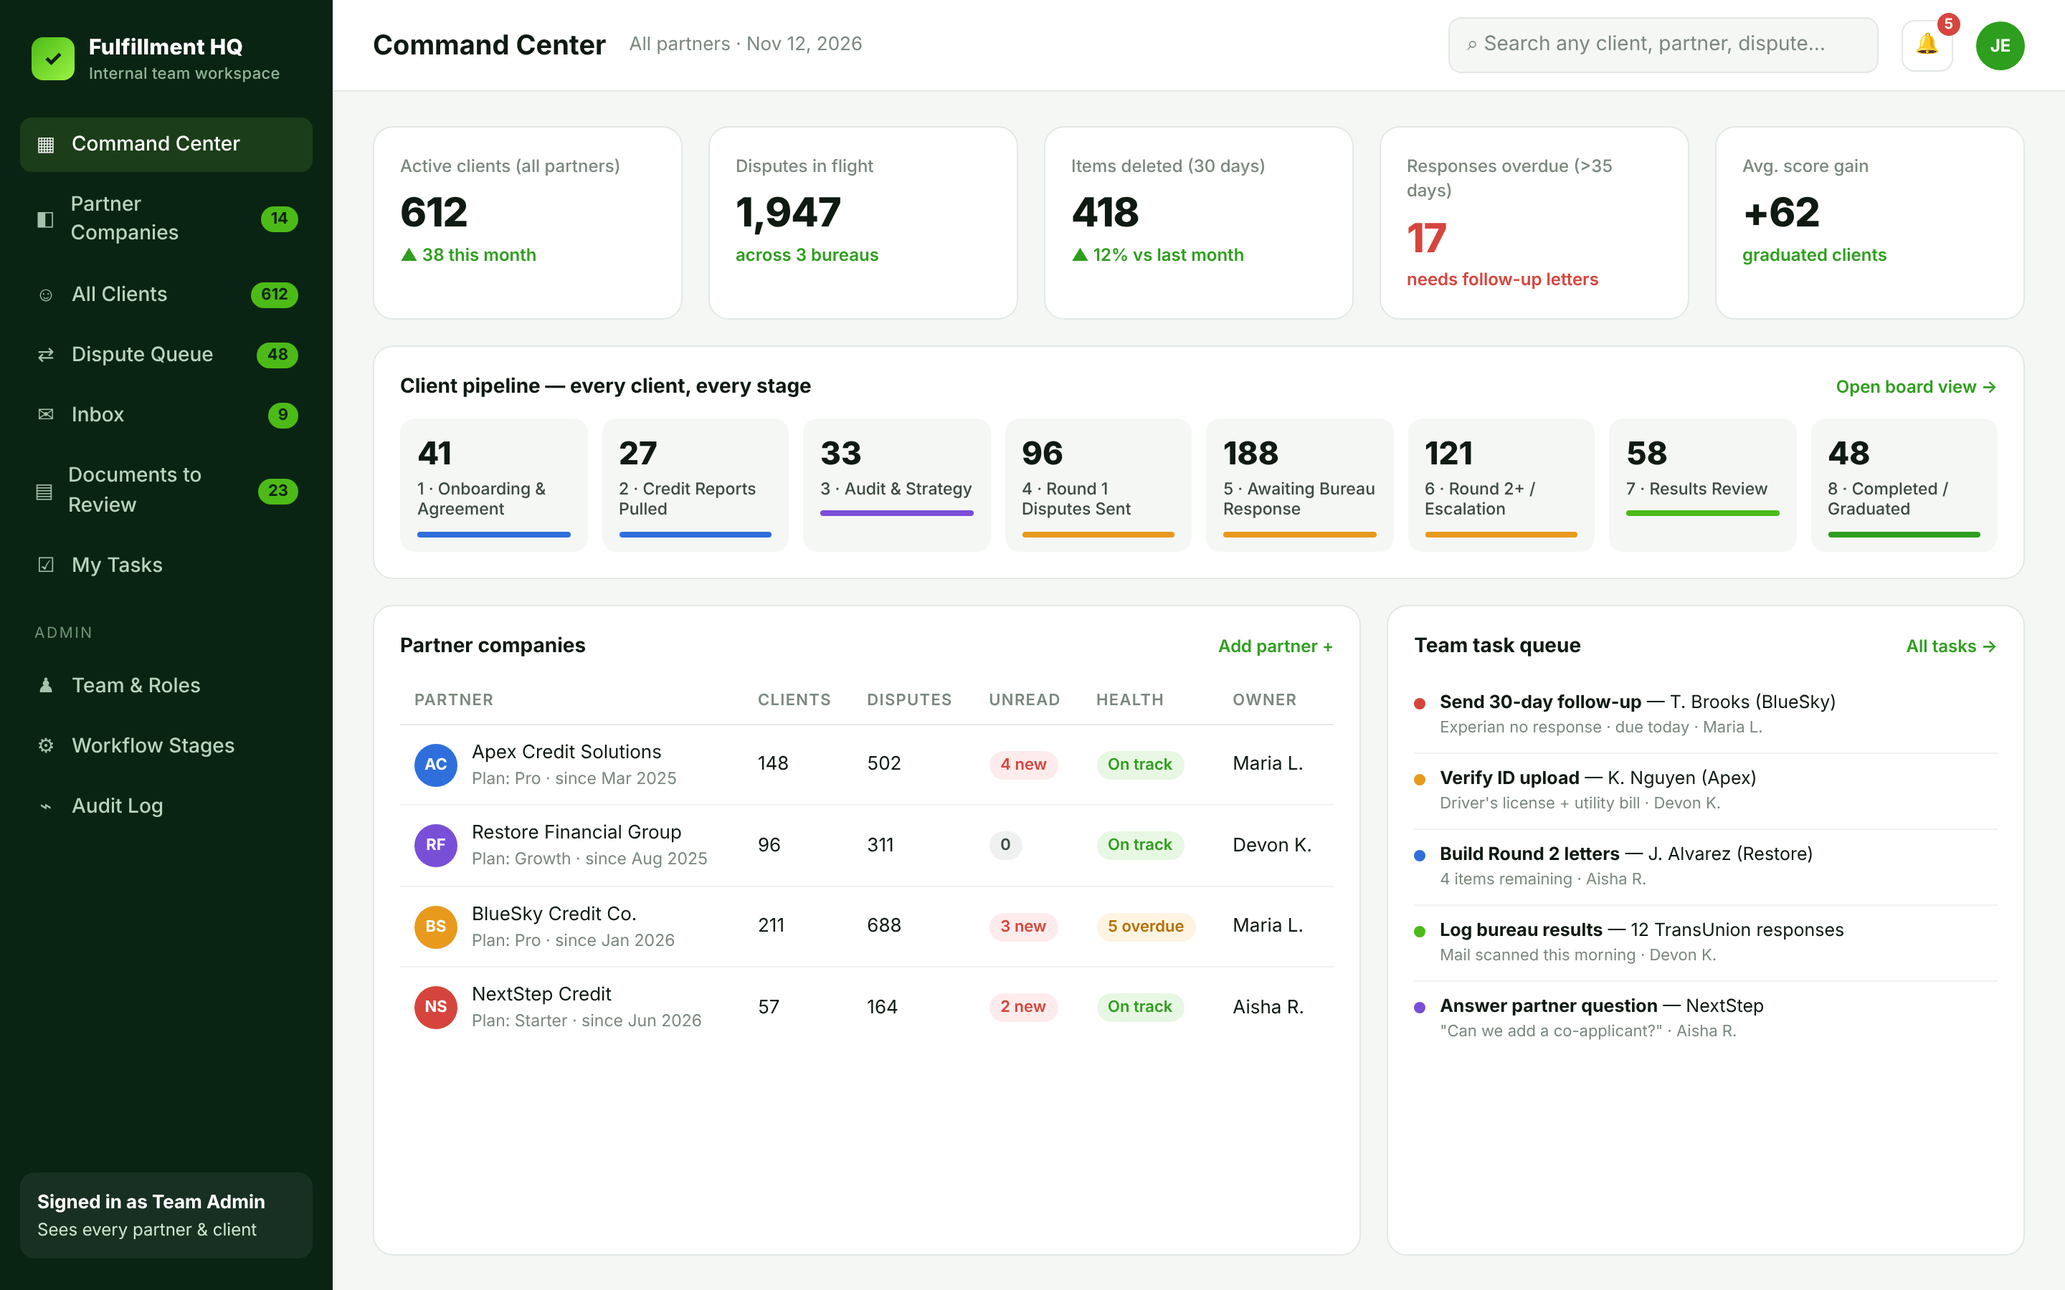
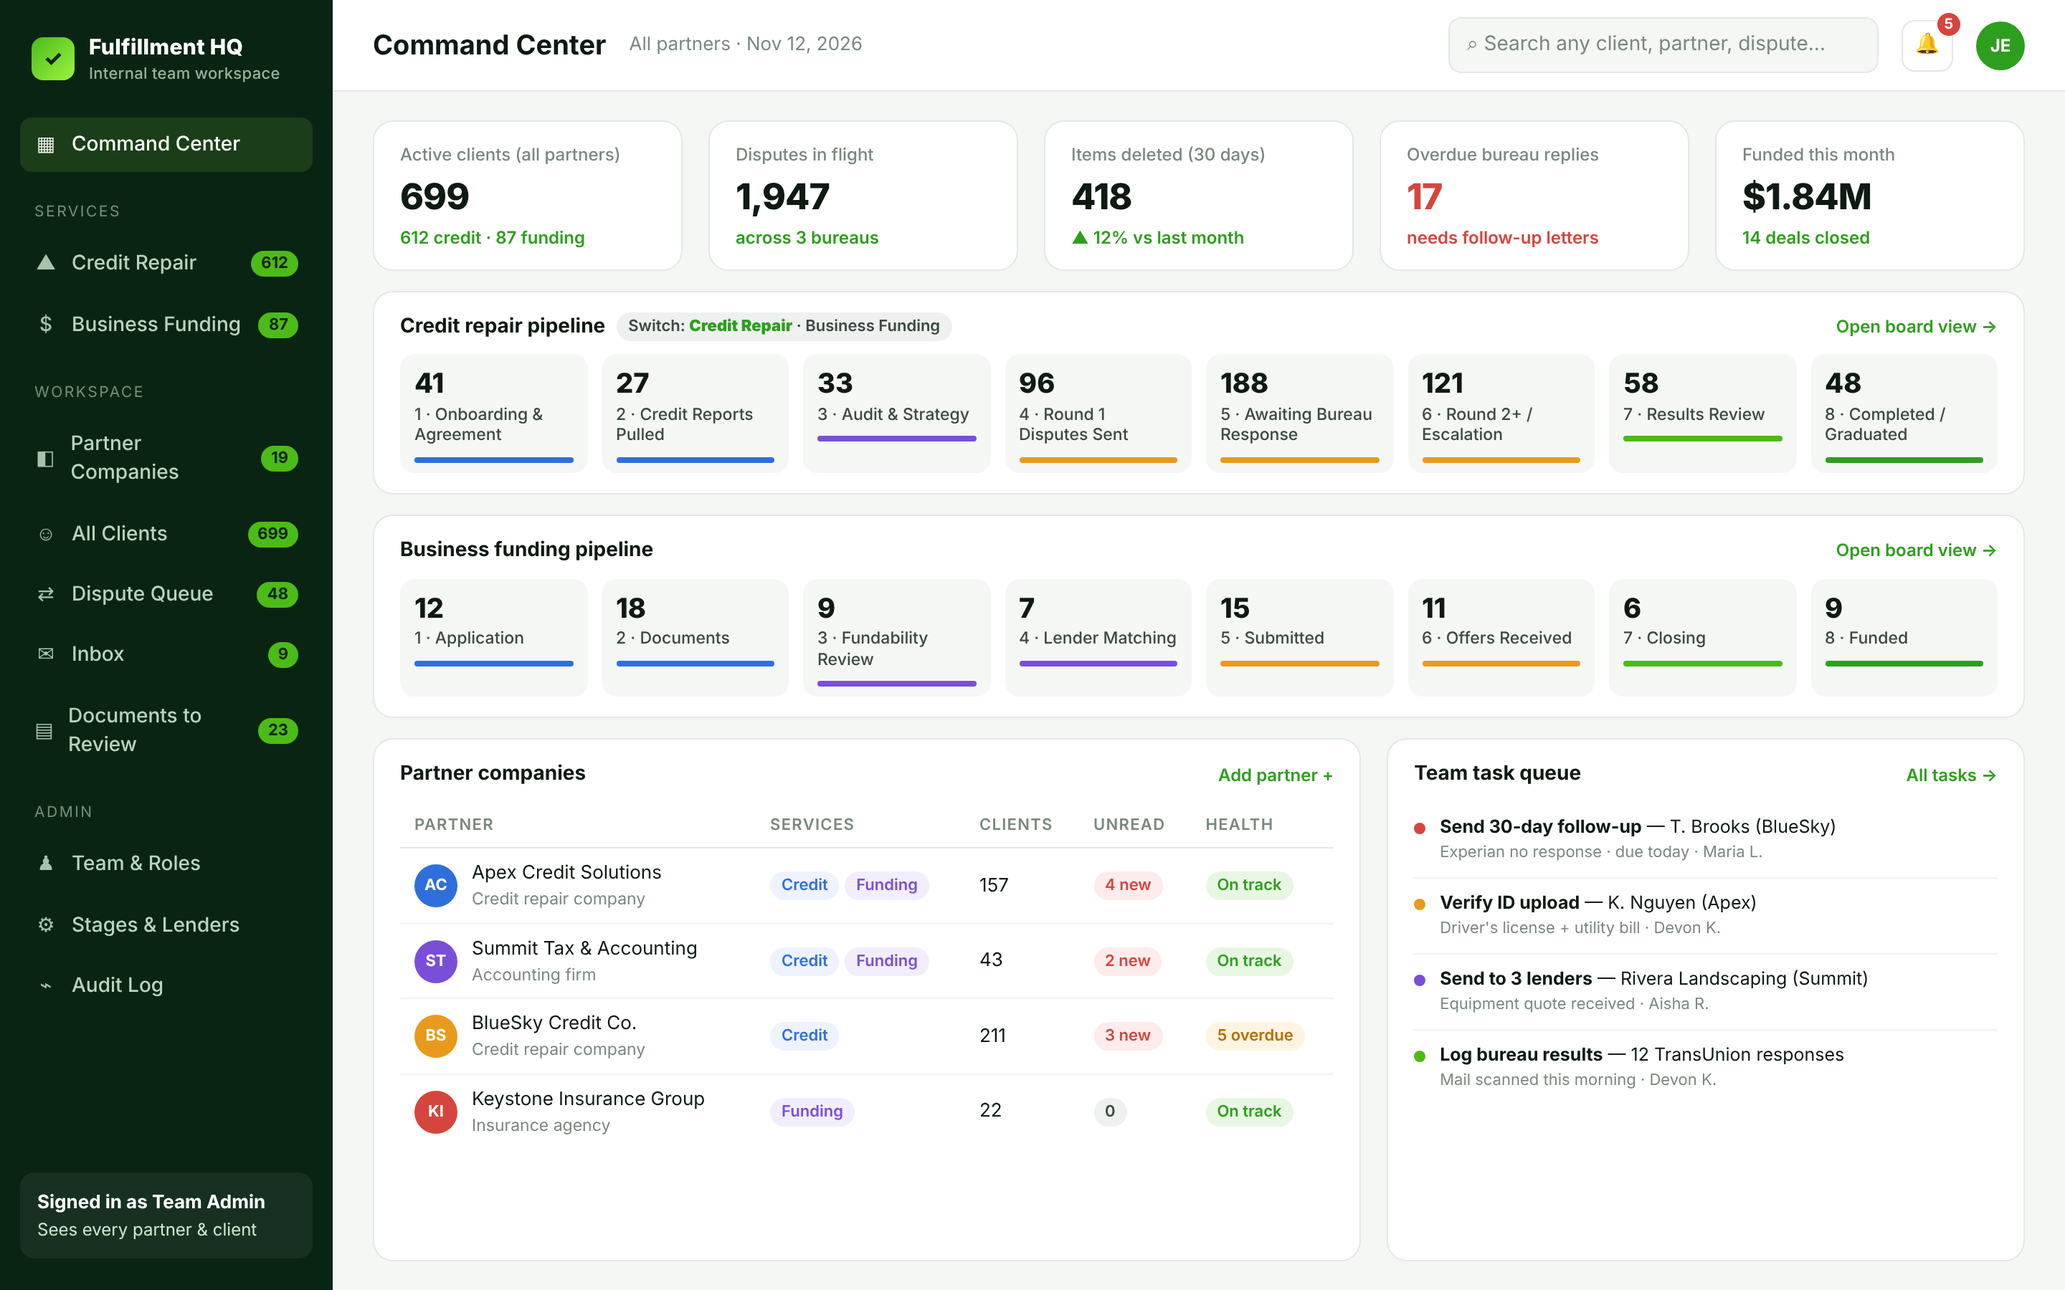
Show both service lines across all mockups
Claude-Session: https://claude.ai/code/session_01E4vzuKpuGZhX4AP366Xiax

diff --git a/credit-portal/mockups/src/mockups.html b/credit-portal/mockups/src/mockups.html
@@ -107,6 +107,7 @@ tr:last-child td{border-bottom:0}
 .box p{font-size:12px;color:var(--ink2)}
 .arrow{color:var(--mute);font-size:22px;text-align:center}
 .tag{display:inline-block;font-size:11px;font-weight:600;border-radius:6px;padding:3px 8px;margin:3px 3px 0 0;background:var(--bg);color:var(--ink2)}
+#team .body{gap:14px;padding:20px 28px}#team .card{padding:14px 18px}#team .stage{padding:7px 10px}#team .stage .n{font-size:19px}#team .kpi .v{font-size:25px}#team .card h3{margin-bottom:9px}#team td{padding:8px 10px}
 </style>
 </head>
 <body>
@@ -116,15 +117,18 @@ tr:last-child td{border-bottom:0}
   <aside class="side">
     <div class="logo"><i>✓</i><div>Fulfillment HQ<small>Internal team workspace</small></div></div>
     <div class="nav on"><span class="ic">▦</span>Command Center</div>
-    <div class="nav"><span class="ic">◧</span>Partner Companies<b>14</b></div>
-    <div class="nav"><span class="ic">☺</span>All Clients<b>612</b></div>
+    <div class="sideh">Services</div>
+    <div class="nav"><span class="ic">▲</span>Credit Repair<b>612</b></div>
+    <div class="nav"><span class="ic">$</span>Business Funding<b>87</b></div>
+    <div class="sideh">Workspace</div>
+    <div class="nav"><span class="ic">◧</span>Partner Companies<b>19</b></div>
+    <div class="nav"><span class="ic">☺</span>All Clients<b>699</b></div>
     <div class="nav"><span class="ic">⇄</span>Dispute Queue<b>48</b></div>
     <div class="nav"><span class="ic">✉</span>Inbox<b>9</b></div>
     <div class="nav"><span class="ic">▤</span>Documents to Review<b>23</b></div>
-    <div class="nav"><span class="ic">☑</span>My Tasks</div>
-    <div class="sideh">Admin</div>
+        <div class="sideh">Admin</div>
     <div class="nav"><span class="ic">♟</span>Team & Roles</div>
-    <div class="nav"><span class="ic">⚙</span>Workflow Stages</div>
+    <div class="nav"><span class="ic">⚙</span>Stages &amp; Lenders</div>
     <div class="nav"><span class="ic">⌁</span>Audit Log</div>
     <div class="role"><strong>Signed in as Team Admin</strong>Sees every partner &amp; client</div>
   </aside>
@@ -133,14 +137,14 @@ tr:last-child td{border-bottom:0}
       <div class="search">⌕ Search any client, partner, dispute…</div><div class="bell">🔔</div><div class="av" style="background:#2E9E1E">JE</div></div>
     <div class="body">
       <div class="row">
-        <div class="card kpi"><div class="l">Active clients (all partners)</div><div class="v">612</div><div class="d">▲ 38 this month</div></div>
+        <div class="card kpi"><div class="l">Active clients (all partners)</div><div class="v">699</div><div class="d">612 credit · 87 funding</div></div>
         <div class="card kpi"><div class="l">Disputes in flight</div><div class="v">1,947</div><div class="d">across 3 bureaus</div></div>
         <div class="card kpi"><div class="l">Items deleted (30 days)</div><div class="v">418</div><div class="d">▲ 12% vs last month</div></div>
-        <div class="card kpi"><div class="l">Responses overdue (&gt;35 days)</div><div class="v" style="color:var(--red)">17</div><div class="d neg">needs follow-up letters</div></div>
-        <div class="card kpi"><div class="l">Avg. score gain</div><div class="v">+62</div><div class="d">graduated clients</div></div>
+        <div class="card kpi"><div class="l">Overdue bureau replies</div><div class="v" style="color:var(--red)">17</div><div class="d neg">needs follow-up letters</div></div>
+        <div class="card kpi"><div class="l">Funded this month</div><div class="v">$1.84M</div><div class="d">14 deals closed</div></div>
       </div>
       <div class="card">
-        <h3>Client pipeline — every client, every stage <span class="lk">Open board view →</span></h3>
+        <h3>Credit repair pipeline <span class="pill s6" style="font-weight:600">Switch: <b style="color:var(--brand)">Credit Repair</b> · Business Funding</span><span class="lk">Open board view →</span></h3>
         <div class="pipe">
           <div class="stage"><div class="n">41</div><div class="t">1 · Onboarding &amp; Agreement</div><div class="b" style="background:var(--blue)"></div></div>
           <div class="stage"><div class="n">27</div><div class="t">2 · Credit Reports Pulled</div><div class="b" style="background:var(--blue)"></div></div>
@@ -152,15 +156,28 @@ tr:last-child td{border-bottom:0}
           <div class="stage"><div class="n">48</div><div class="t">8 · Completed / Graduated</div><div class="b" style="background:var(--brand)"></div></div>
         </div>
       </div>
+      <div class="card" style="padding:14px 18px">
+        <h3 style="margin-bottom:10px">Business funding pipeline <span class="lk">Open board view →</span></h3>
+        <div class="pipe">
+          <div class="stage"><div class="n">12</div><div class="t">1 · Application</div><div class="b" style="background:var(--blue)"></div></div>
+          <div class="stage"><div class="n">18</div><div class="t">2 · Documents</div><div class="b" style="background:var(--blue)"></div></div>
+          <div class="stage"><div class="n">9</div><div class="t">3 · Fundability Review</div><div class="b" style="background:var(--violet)"></div></div>
+          <div class="stage"><div class="n">7</div><div class="t">4 · Lender Matching</div><div class="b" style="background:var(--violet)"></div></div>
+          <div class="stage"><div class="n">15</div><div class="t">5 · Submitted</div><div class="b" style="background:var(--gold)"></div></div>
+          <div class="stage"><div class="n">11</div><div class="t">6 · Offers Received</div><div class="b" style="background:var(--gold)"></div></div>
+          <div class="stage"><div class="n">6</div><div class="t">7 · Closing</div><div class="b" style="background:var(--brand2)"></div></div>
+          <div class="stage"><div class="n">9</div><div class="t">8 · Funded</div><div class="b" style="background:var(--brand)"></div></div>
+        </div>
+      </div>
       <div class="row" style="flex:1;min-height:0">
         <div class="card" style="flex:1.6">
           <h3>Partner companies <span class="lk">Add partner +</span></h3>
           <table>
-            <tr><th>Partner</th><th>Clients</th><th>Disputes</th><th>Unread</th><th>Health</th><th>Owner</th></tr>
-            <tr><td><div class="who"><div class="av" style="background:#2F6FDB">AC</div><div>Apex Credit Solutions<small>Plan: Pro · since Mar 2025</small></div></div></td><td>148</td><td>502</td><td><span class="pill s5">4 new</span></td><td><span class="pill s4">On track</span></td><td>Maria L.</td></tr>
-            <tr><td><div class="who"><div class="av" style="background:#7A4FD8">RF</div><div>Restore Financial Group<small>Plan: Growth · since Aug 2025</small></div></div></td><td>96</td><td>311</td><td><span class="pill s6">0</span></td><td><span class="pill s4">On track</span></td><td>Devon K.</td></tr>
-            <tr><td><div class="who"><div class="av" style="background:#E89A1C">BS</div><div>BlueSky Credit Co.<small>Plan: Pro · since Jan 2026</small></div></div></td><td>211</td><td>688</td><td><span class="pill s5">3 new</span></td><td><span class="pill s3">5 overdue</span></td><td>Maria L.</td></tr>
-            <tr><td><div class="who"><div class="av" style="background:#D6453D">NS</div><div>NextStep Credit<small>Plan: Starter · since Jun 2026</small></div></div></td><td>57</td><td>164</td><td><span class="pill s5">2 new</span></td><td><span class="pill s4">On track</span></td><td>Aisha R.</td></tr>
+            <tr><th>Partner</th><th>Services</th><th>Clients</th><th>Unread</th><th>Health</th></tr>
+            <tr><td><div class="who"><div class="av" style="background:#2F6FDB">AC</div><div>Apex Credit Solutions<small>Credit repair company</small></div></div></td><td><span class="pill s1">Credit</span> <span class="pill s2">Funding</span></td><td>157</td><td><span class="pill s5">4 new</span></td><td><span class="pill s4">On track</span></td></tr>
+            <tr><td><div class="who"><div class="av" style="background:#7A4FD8">ST</div><div>Summit Tax &amp; Accounting<small>Accounting firm</small></div></div></td><td><span class="pill s1">Credit</span> <span class="pill s2">Funding</span></td><td>43</td><td><span class="pill s5">2 new</span></td><td><span class="pill s4">On track</span></td></tr>
+            <tr><td><div class="who"><div class="av" style="background:#E89A1C">BS</div><div>BlueSky Credit Co.<small>Credit repair company</small></div></div></td><td><span class="pill s1">Credit</span></td><td>211</td><td><span class="pill s5">3 new</span></td><td><span class="pill s3">5 overdue</span></td></tr>
+            <tr><td><div class="who"><div class="av" style="background:#D6453D">KI</div><div>Keystone Insurance Group<small>Insurance agency</small></div></div></td><td><span class="pill s2">Funding</span></td><td>22</td><td><span class="pill s6">0</span></td><td><span class="pill s4">On track</span></td></tr>
           </table>
         </div>
         <div class="card" style="flex:1">
@@ -168,9 +185,8 @@ tr:last-child td{border-bottom:0}
           <div class="feed">
             <div><i style="background:var(--red)"></i><div><b>Send 30-day follow-up</b> — T. Brooks (BlueSky)<small>Experian no response · due today · Maria L.</small></div></div>
             <div><i style="background:var(--gold)"></i><div><b>Verify ID upload</b> — K. Nguyen (Apex)<small>Driver's license + utility bill · Devon K.</small></div></div>
-            <div><i style="background:var(--blue)"></i><div><b>Build Round 2 letters</b> — J. Alvarez (Restore)<small>4 items remaining · Aisha R.</small></div></div>
+            <div><i style="background:var(--violet)"></i><div><b>Send to 3 lenders</b> — Rivera Landscaping (Summit)<small>Equipment quote received · Aisha R.</small></div></div>
             <div><i style="background:var(--brand2)"></i><div><b>Log bureau results</b> — 12 TransUnion responses<small>Mail scanned this morning · Devon K.</small></div></div>
-            <div><i style="background:var(--violet)"></i><div><b>Answer partner question</b> — NextStep<small>"Can we add a co-applicant?" · Aisha R.</small></div></div>
           </div>
         </div>
       </div>
@@ -183,15 +199,16 @@ tr:last-child td{border-bottom:0}
   <aside class="side" style="background:#0B1F3A">
     <div class="logo"><i style="background:linear-gradient(135deg,#2F6FDB,#7FB2FF);color:#fff">A</i><div>Apex Credit Solutions<small style="color:#93A9C9">Powered by Fulfillment HQ</small></div></div>
     <div class="nav on" style="background:rgba(127,178,255,.15)"><span class="ic">▦</span>Dashboard</div>
-    <div class="nav"><span class="ic">☺</span>My Clients<b style="background:#7FB2FF">148</b></div>
+    <div class="sideh" style="color:#6F86A8">Services</div>
+    <div class="nav"><span class="ic">▲</span>Credit Repair<b style="background:#7FB2FF">148</b></div>
+    <div class="nav"><span class="ic">$</span>Business Funding<b style="background:#7FB2FF">9</b></div>
+    <div class="sideh" style="color:#6F86A8">Workspace</div>
     <div class="nav"><span class="ic">🔔</span>Notifications<b style="background:#7FB2FF">7</b></div>
     <div class="nav"><span class="ic">✉</span>Messages &amp; Questions<b style="background:#7FB2FF">2</b></div>
     <div class="nav"><span class="ic">▤</span>Documents</div>
     <div class="nav"><span class="ic">★</span>Feedback</div>
-    <div class="nav"><span class="ic">⇩</span>Reports &amp; Exports</div>
-    <div class="sideh" style="color:#6F86A8">Account</div>
-    <div class="nav"><span class="ic">♟</span>My Team Users</div>
-    <div class="nav"><span class="ic">⚙</span>Client Update Settings</div>
+    <div class="nav"><span class="ic">%</span>Funding Payouts</div>
+    <div class="nav"><span class="ic">⚙</span>Settings &amp; Team</div>
     <div class="role"><strong>Partner view</strong>Only Apex's 148 clients are visible. Other partners' data is walled off.</div>
   </aside>
   <div class="main">
@@ -206,7 +223,7 @@ tr:last-child td{border-bottom:0}
       </div>
       <div class="row" style="flex:1;min-height:0">
         <div class="card" style="flex:1.7">
-          <h3>My clients <span class="pill s6" style="font-weight:500">Filter: All stages ▾</span><span class="lk">+ Submit new client</span></h3>
+          <h3>My credit repair clients <span class="pill s6" style="font-weight:500">Filter: All stages ▾</span><span class="lk">+ Submit new client</span></h3>
           <table>
             <tr><th>Client</th><th>Current stage</th><th>Progress</th><th>Items removed</th><th>Score</th><th>Last update</th></tr>
             <tr><td><div class="who"><div class="av" style="background:#4CBB17">KN</div><div>Kevin Nguyen<small>Enrolled Oct 2, 2026</small></div></div></td><td><span class="pill s1">2 · Reports Pulled</span></td><td><div class="bar"><i style="width:22%"></i></div></td><td>0 / 9</td><td>584</td><td>Today</td></tr>
@@ -387,19 +404,19 @@ tr:last-child td{border-bottom:0}
     <div style="font-size:26px;font-weight:800;letter-spacing:-.02em;margin-top:4px">Every user sees exactly their slice — nothing more</div></div>
     <div class="box" style="border-color:#BFDDB4;background:#F6FBF3">
       <h4>🟢 Your fulfillment team <span class="pill s4">Admin · Specialist · Viewer</span></h4>
-      <p>Sees <b>every partner company and every client</b>. Moves clients through stages, logs bureau results, uploads letters, answers questions. Admins manage team members, stages and the audit log.</p>
+      <p>Sees <b>every partner and every client</b> in both services. Runs the work: moves stages, logs bureau results, submits to lenders, answers partner questions. Admins manage the team, stages, lenders and the audit log.</p>
     </div>
     <div class="arrow">▼ assigns &amp; serves</div>
     <div class="row" style="gap:14px">
-      <div class="box" style="flex:1;border-color:#B9CDF2;background:#F4F8FF"><h4>🔵 Apex Credit</h4><p>Owner + staff logins</p><span class="tag">148 clients</span><span class="tag">own messages</span><span class="tag">own docs</span></div>
-      <div class="box" style="flex:1;border-color:#D7C8F5;background:#F8F5FF"><h4>🟣 Restore Financial</h4><p>Owner + staff logins</p><span class="tag">96 clients</span><span class="tag">own messages</span><span class="tag">own docs</span></div>
-      <div class="box" style="flex:1;border-color:#F3D9AE;background:#FFFAF1"><h4>🟠 BlueSky Credit</h4><p>Owner + staff logins</p><span class="tag">211 clients</span><span class="tag">own messages</span><span class="tag">own docs</span></div>
+      <div class="box" style="flex:1;border-color:#B9CDF2;background:#F4F8FF"><h4>🔵 Apex Credit</h4><p>Credit repair company</p><span class="tag">Credit</span><span class="tag">Funding</span><span class="tag">own clients only</span></div>
+      <div class="box" style="flex:1;border-color:#D7C8F5;background:#F8F5FF"><h4>🟣 Summit Tax &amp; Acct.</h4><p>Accounting firm</p><span class="tag">Credit</span><span class="tag">Funding</span><span class="tag">own clients only</span></div>
+      <div class="box" style="flex:1;border-color:#F3D9AE;background:#FFFAF1"><h4>🟠 Keystone Insurance</h4><p>Insurance agency</p><span class="tag">Funding</span><span class="tag">own clients only</span></div>
     </div>
     <div style="display:flex;align-items:center;gap:10px;background:#FDECEB;color:#A3302A;border-radius:10px;padding:10px 14px;font-size:12.5px;font-weight:600">🔒 Hard wall between partners — enforced in the database (row-level security), not just hidden in the UI.</div>
-    <div class="arrow">▼ shares progress with</div>
+    <div class="arrow">▼ their clients</div>
     <div class="row" style="gap:14px">
-      <div class="box" style="flex:1"><h4>👤 Danielle (Apex's client)</h4><p>Optional login: sees only her own progress, updates, and uploads.</p></div>
-      <div class="box" style="flex:1"><h4>👤 Marcus (Apex's client)</h4><p>Cannot see Danielle, or any other partner's clients.</p></div>
+      <div class="box" style="flex:1;border-color:#B9CDF2"><h4>▲ Credit repair client</h4><p>Talks <b>only to the partner</b>. Our team never contacts them. This can't be switched on.</p></div>
+      <div class="box" style="flex:1;border-color:#D7C8F5"><h4>$ Business funding client</h4><p>Our team can talk to them <b>under the partner's name</b>, if the partner allows it. The partner sees every message.</p></div>
     </div>
     <div class="row" style="gap:10px;margin-top:4px">
       <span class="tag" style="background:#E8F7E3;color:var(--brand)">✓ Email + SMS + in-app notifications</span>
@@ -415,7 +432,7 @@ tr:last-child td{border-bottom:0}
   <aside class="side" style="background:#2A1B3D">
     <div class="logo"><i style="background:linear-gradient(135deg,#7A4FD8,#C3A8FF);color:#fff">S</i><div>Summit Tax &amp; Accounting<small style="color:#B7A6D1">Powered by Fulfillment HQ</small></div></div>
     <div class="sideh" style="color:#9583B3;padding-top:4px">Services</div>
-    <div class="nav"><span class="ic">◔</span>Credit Repair<b style="background:#C3A8FF">12</b></div>
+    <div class="nav"><span class="ic">▲</span>Credit Repair<b style="background:#C3A8FF">12</b></div>
     <div class="nav on" style="background:rgba(195,168,255,.16)"><span class="ic">$</span>Business Funding<b style="background:#C3A8FF">31</b></div>
     <div class="sideh" style="color:#9583B3">Workspace</div>
     <div class="nav"><span class="ic">▦</span>Dashboard</div>
@@ -479,7 +496,7 @@ tr:last-child td{border-bottom:0}
   <aside class="side">
     <div class="logo"><i>✓</i><div>Fulfillment HQ<small>Internal team workspace</small></div></div>
     <div class="sideh" style="padding-top:4px">Services</div>
-    <div class="nav"><span class="ic">◔</span>Credit Repair<b>612</b></div>
+    <div class="nav"><span class="ic">▲</span>Credit Repair<b>612</b></div>
     <div class="nav on"><span class="ic">$</span>Business Funding<b>87</b></div>
     <div class="sideh">Workspace</div>
     <div class="nav"><span class="ic">▦</span>Command Center</div>
